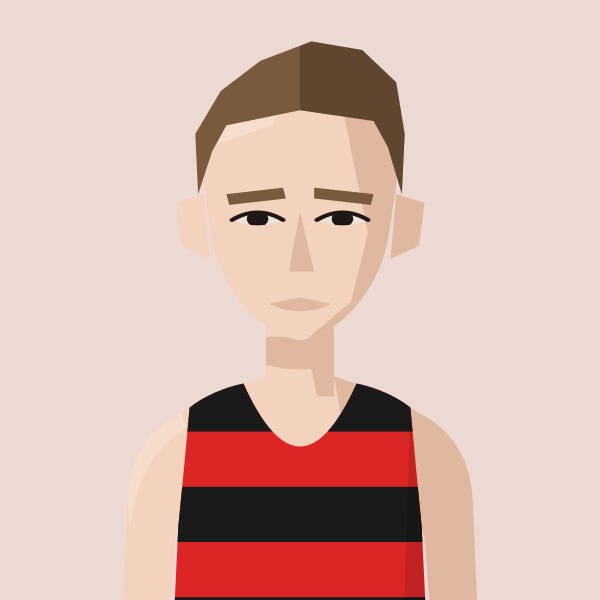
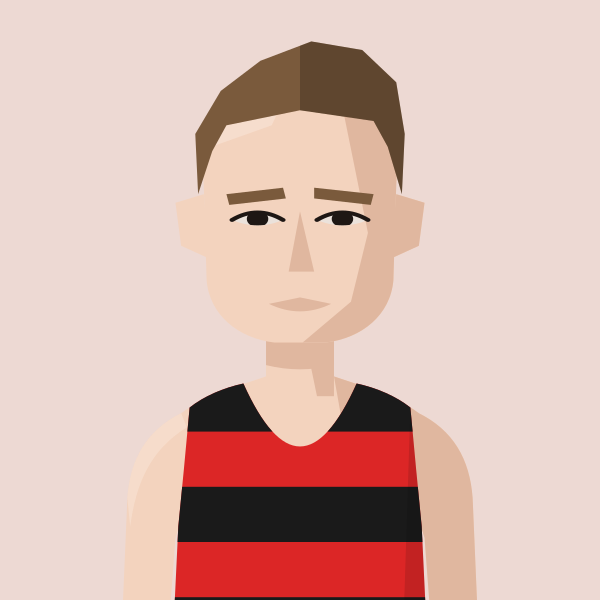
Nick Bester: thicker chin (square jaw)
Claude-Session: https://claude.ai/code/session_01DgcEr9hQHGiZw2mBbM5jbH

Changed region(s): [[0.54, 0.33, 0.66, 0.57], [0.45, 0.54, 0.51, 0.57]]

diff --git a/files/index.html b/files/index.html
@@ -598,7 +598,7 @@ return m;})();
 const portraitFile=(name,club)=>{const k=normalizeNameForCompare(name||'').replace(/\s*\(([^)]*)\)$/,(m,c)=>CLUBS[c.toUpperCase()]?'':m);const a=PORTRAITS[k];if(a&&a.club===club)return a.file;const b=PORTRAITS[k+'@'+club];return b?b.file:null;};
 // Athlete header figure: superstar portrait if we have one, else a grey runner in the club vest, else the plain vest icon
 // Changes whenever any portrait changes (set by tools/build_og.py), so browsers fetch fresh images instead of old cached ones
-const PORTRAIT_V='51d47702';
+const PORTRAIT_V='192b1af4';
 const AthletePortrait=({name,club,w,fill,onClick})=>{const[failed,setFailed]=useState(false);const file=portraitFile(name,club);const src=file?`/portraits/athletes/${file}.svg?v=${PORTRAIT_V}`:PORTRAIT_CLUBS.has(club)?`/portraits/clubs/${club.replace(/\//g,'').replace(/&/g,'and')}.svg?v=${PORTRAIT_V}`:null;if(!src||failed)return<div onClick={onClick} className={onClick?'cursor-pointer':''}><ClubShield club={club} size={w}/></div>;const h=Math.round(w*148/126),ih=Math.round(w*1.4);if(fill)return<div onClick={onClick} className="cursor-pointer" style={{alignSelf:'stretch',minHeight:h,aspectRatio:'126 / 148',flexShrink:0,position:'relative',borderRadius:4,overflow:'hidden'}}><img src={src} alt={file?`Portrait of ${name.replace(/\s*\([^)]*\)$/,'')}`:`Runner in ${CLUBS[club]?.name||club} vest`} style={{position:'absolute',top:0,left:0,display:'block',width:'100%',height:'auto'}} onError={()=>setFailed(true)}/></div>;return<div style={{width:w,height:h,borderRadius:4,overflow:'hidden',flexShrink:0}}><img src={src} alt={file?`Portrait of ${name.replace(/\s*\([^)]*\)$/,'')}`:`Runner in ${CLUBS[club]?.name||club} vest`} width={w} height={ih} style={{display:'block',width:w,height:ih}} onError={()=>setFailed(true)}/></div>;};
 const getClubVestSvg=(club)=>{
   const p="M3 0 L6 0 Q7 4 10 5 Q13 4 14 0 L17 0 L17 20 L3 20 Z";

diff --git a/tools/gen_portraits.py b/tools/gen_portraits.py
@@ -1124,6 +1124,10 @@ save("tim-eglen", figure("AFD", skin=1, hair="crop", hair_colour="#9C8566", jaw=
 save("nick-bester", figure("HOL", skin=1, hair="quiff", hair_colour="#7A5A3C", jaw="narrow"))
 save("nick-bester-hhh", figure("HHH", skin=1, hair="quiff", hair_colour="#7A5A3C", jaw="narrow"))
 
+# Nick Bester redraw: thicker chin (Steve, Oct 2026)
+save("nick-bester", figure("HOL", skin=1, hair="quiff", hair_colour="#7A5A3C", jaw="square"))
+save("nick-bester-hhh", figure("HHH", skin=1, hair="quiff", hair_colour="#7A5A3C", jaw="square"))
+
 # ---- Site export -------------------------------------------------------------
 # Every live portrait, written to site/<slug>.svg under the exact file name the
 # site uses (files/portraits/athletes/). Most portraits are saved under their
